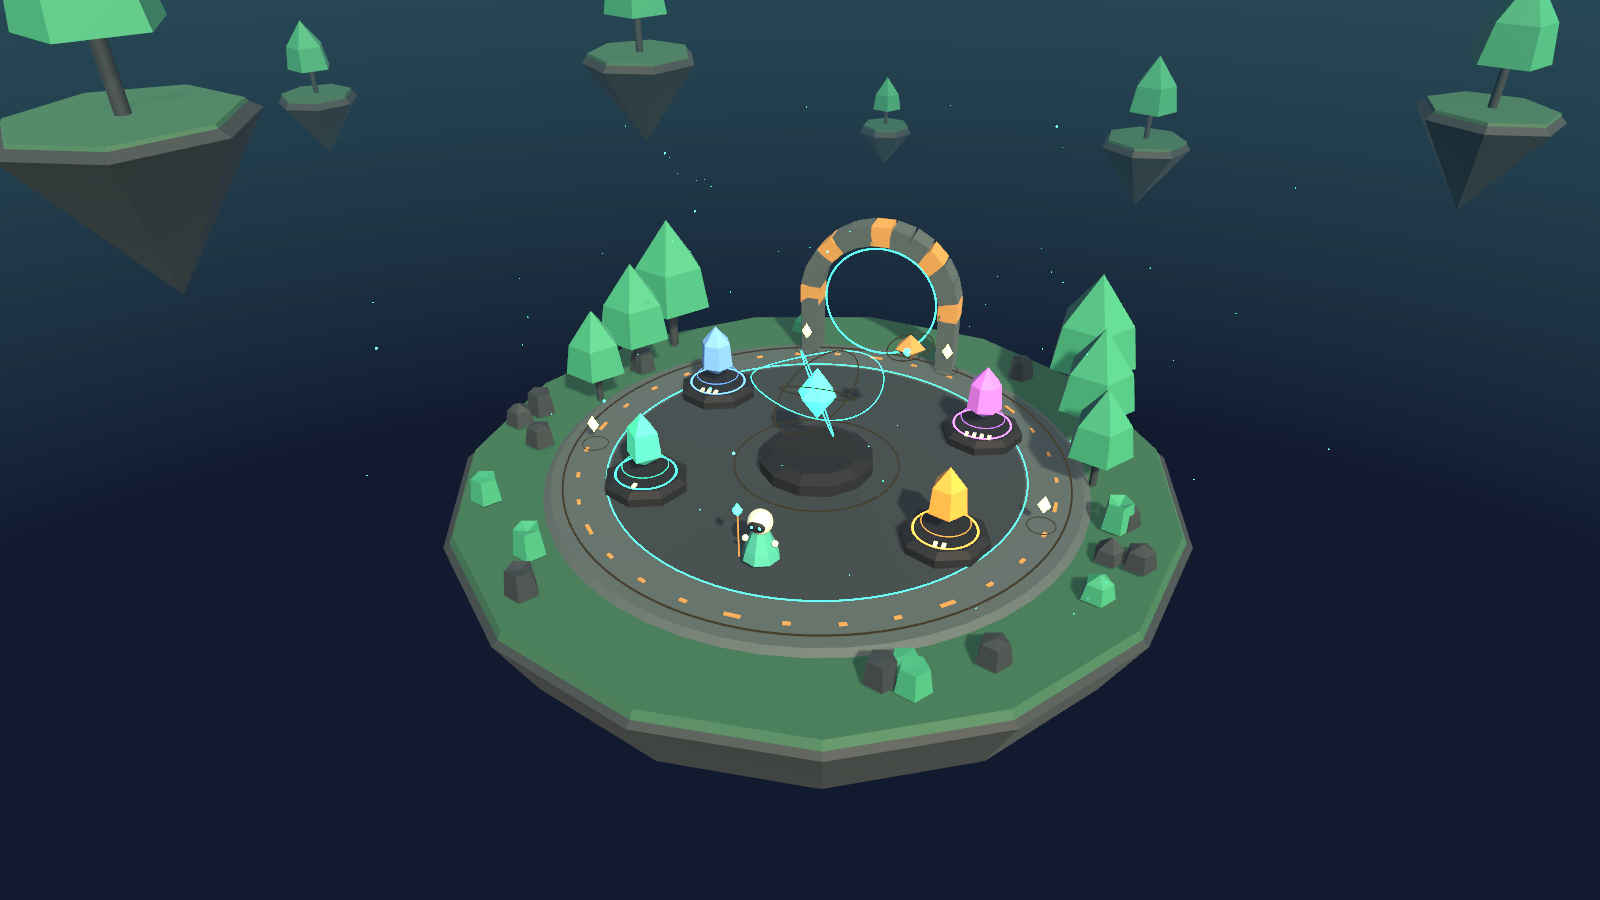
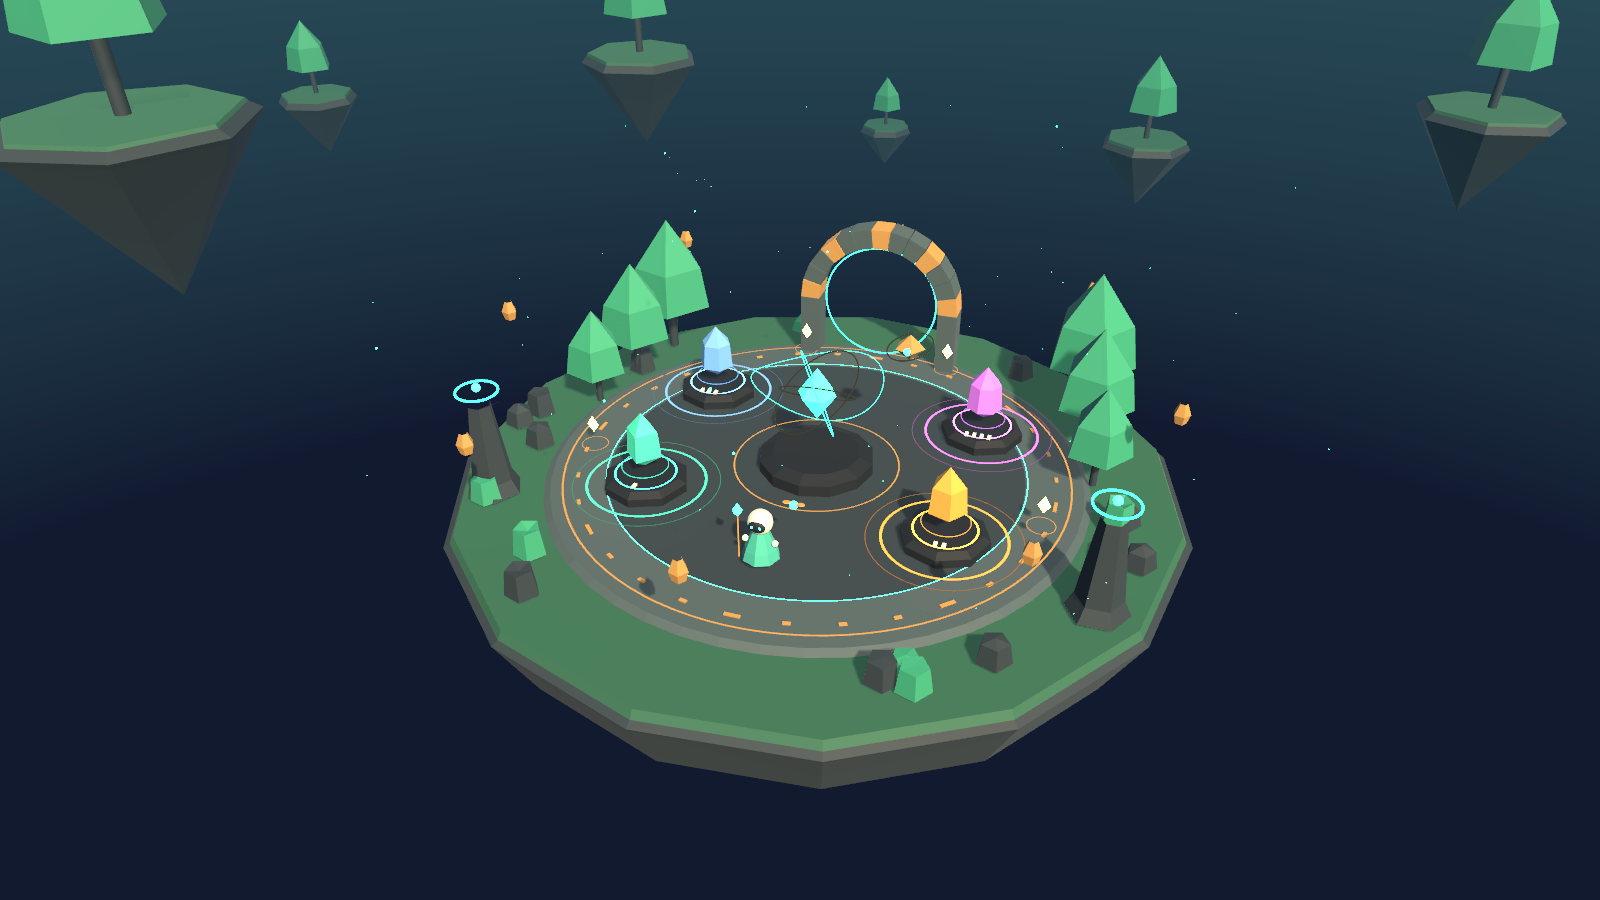
docs: registrar corrección del portal y capturas

diff --git a/VERIFICACION.md b/VERIFICACION.md
@@ -2,6 +2,14 @@
 
 Última revisión: 3 de noviembre de 2026. Equipo Windows, Unity 6000.6.5f1.
 
+## Portal y lobby — 3 de noviembre
+
+- **Compilación y renderizado: PASS.** Unity generó el ejecutable y tres imágenes de los santuarios. Log: `TestResults/Unity-v412-Portal.log`.
+- Se inspeccionaron `Capturas/Santuario-1.png`, `Santuario-2.png` y `Santuario-3.png`: el arco usa dovelas radiales separadas por juntas y no comparte caras superpuestas con los pilares. Los aros del pavimento son mallas horizontales a alturas distintas.
+- Los paneles del lobby tienen fondos opacos y las descripciones disponen de más altura para evitar recortes.
+- Esta corrección es visual; no altera las reglas de selección física, combate ni guardado. No se repitió la batería de lógica ni se llamó a OpenAI.
+- Paquete de esta edición: `Builds/EcosDeNebula-4.1.2-lobby.zip`.
+
 ## Runas a pie — 3 de noviembre
 
 - **Selección física y combate: PASS.** 150 comprobaciones en Unity Play Mode, incluidas 45 nuevas sobre entrada en los aros, permanencia sin duplicados, salida y reentrada para repetir símbolos, margen de salida, bloqueo durante demostración/pausa/ayuda/Atlas y rechazo de respuestas a distancia. Las comprobaciones se repiten en las cinco dificultades. Log: `TestResults/Unity-v41-BuildCombat.log`.

diff --git a/CHANGELOG.md b/CHANGELOG.md
@@ -1,5 +1,12 @@
 # Ecos de Nébula — La era de los guardianes
 
+## 3 de noviembre de 2026 — Corrección visual del lobby
+
+- Portal reconstruido con dovelas radiales y juntas entre piezas: desaparecen las caras superpuestas del arco y de su unión con los pilares.
+- Paneles del lobby opacos: el archipiélago ya no se transparenta por detrás de títulos, descripciones y controles.
+- Más espacio vertical para las descripciones, evitando líneas recortadas.
+- Aros del pavimento y sellos de los pedestales construidos como superficies horizontales fijas, con alturas separadas. Ya no giran hacia la cámara ni atraviesan el suelo al cambiar el ángulo.
+
 ## 3 de noviembre de 2026 — Runas a pie
 
 - Selección exclusiva por la posición de Luma: entrar en el aro de un cristal introduce una runa.
